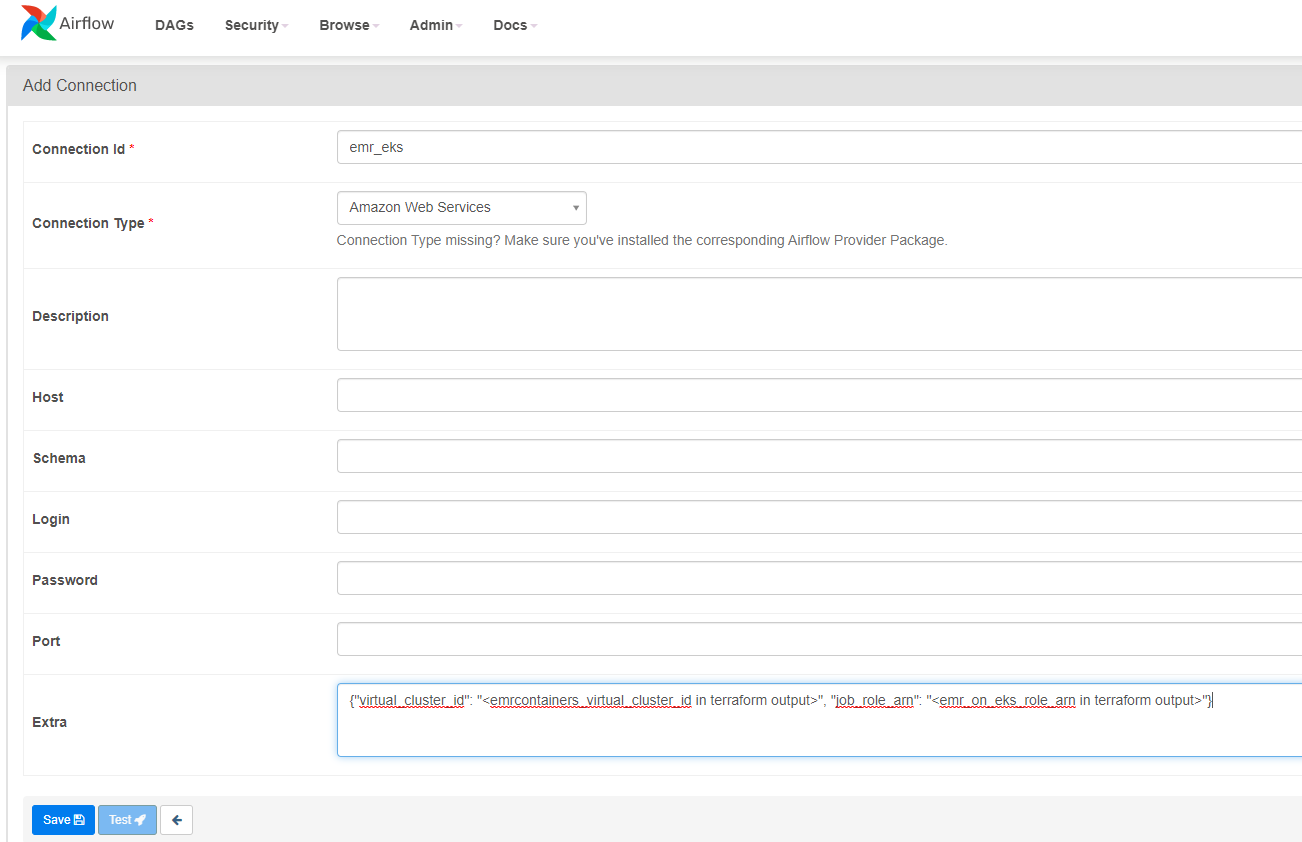
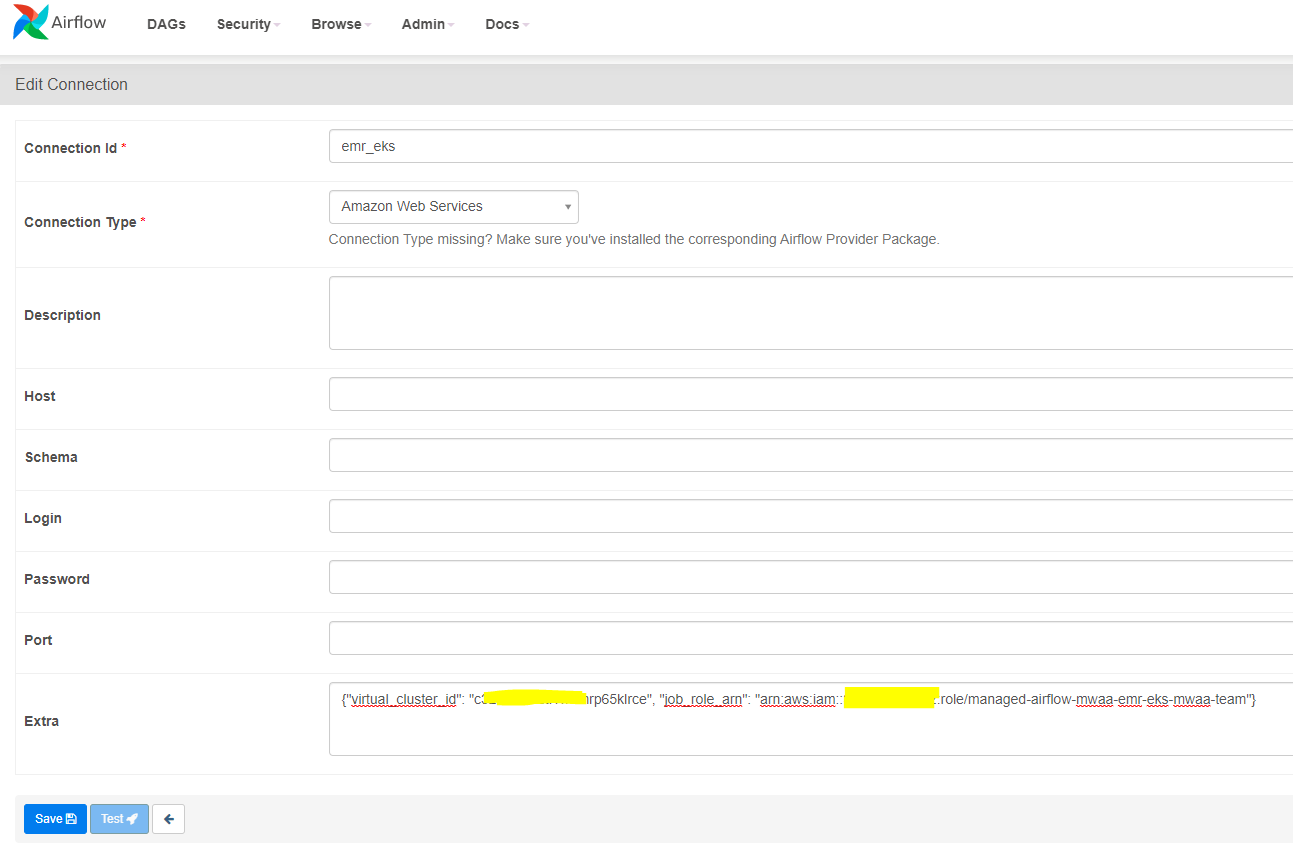
fix issue in mwaa doc

diff --git a/website/docs/job-schedulers-eks/aws-managed-airflow.md b/website/docs/job-schedulers-eks/aws-managed-airflow.md
@@ -94,32 +94,10 @@ namesapce mwaa will be used by MWAA directly.
 
 - Open the Environments page on the Amazon MWAA console
 - Choose an environment
-- Under the `Details` section, click the link for the Airflow UI
+- Under the `Details` section, click the link for the Airflow UI<br />
+Note: You will see red error message once login. That is because the EMR connection has not been setup. The message will be gone after following the steps below to set up the connection and login again. 
 
-2. Trigger the DAG workflow to execute job in EKS
-
-In the Airflow UI, enable the example DAG kubernetes_pod_example and then trigger it.
-
-![Enable the DAG kubernetes_pod_example ](kubernetes_pod_example_dag.png)
-
-![Trigger the DAG kubernetes_pod_example ](dag_tree.png)
-
-Verify that the pod was executed successfully
-
-After it runs and completes successfully, use the following command to verify the pod:
-
-```bash
-kubectl get pods -n mwaa
-```
-
-You should see output similar to the following:
-
-```bash
-NAME                                             READY   STATUS      RESTARTS   AGE
-mwaa-pod-test.4bed823d645844bc8e6899fd858f119d   0/1     Completed   0          25s
-```
-
-3. Trigger the DAG workflow to execute job in EMR on EKS
+2. Trigger the DAG workflow to execute job in EMR on EKS
 
 First, you need to set up the connection to EMR virtual cluster in MWAA
 ![add connection](add-connection.PNG)
@@ -128,6 +106,7 @@ Click Add button, <br />
 make sure use emr_eks as Connection Id <br />
 Amazon Web Services as Connection Type <br />
 replace the value in Extra based on your terraform output <br />
+{"virtual_cluster_id":"<emrcontainers_virtual_cluster_id in terraform output>", "job_role_arn":"<emr_on_eks_role_arn in terraform output>"}
 ![Add a new connection](Add-new-connection.PNG)
 
 
@@ -157,6 +136,32 @@ job.batch/000000030tk2ihdmr8g   0/1           92s        92s
 ```
 You can also check the job status in Amazon EMR console. Under the `Virtual clusters` section, click the your Virtual cluster
 ![EMR job status](emr-job-status.PNG)
+
+
+3. Trigger the DAG workflow to execute job in EKS
+
+In the Airflow UI, enable the example DAG kubernetes_pod_example and then trigger it.
+
+![Enable the DAG kubernetes_pod_example ](kubernetes_pod_example_dag.png)
+
+![Trigger the DAG kubernetes_pod_example ](dag_tree.png)
+
+Verify that the pod was executed successfully
+
+After it runs and completes successfully, use the following command to verify the pod:
+
+```bash
+kubectl get pods -n mwaa
+```
+
+You should see output similar to the following:
+
+```bash
+NAME                                             READY   STATUS      RESTARTS   AGE
+mwaa-pod-test.4bed823d645844bc8e6899fd858f119d   0/1     Completed   0          25s
+```
+
+
 
 ## Destroy
 
